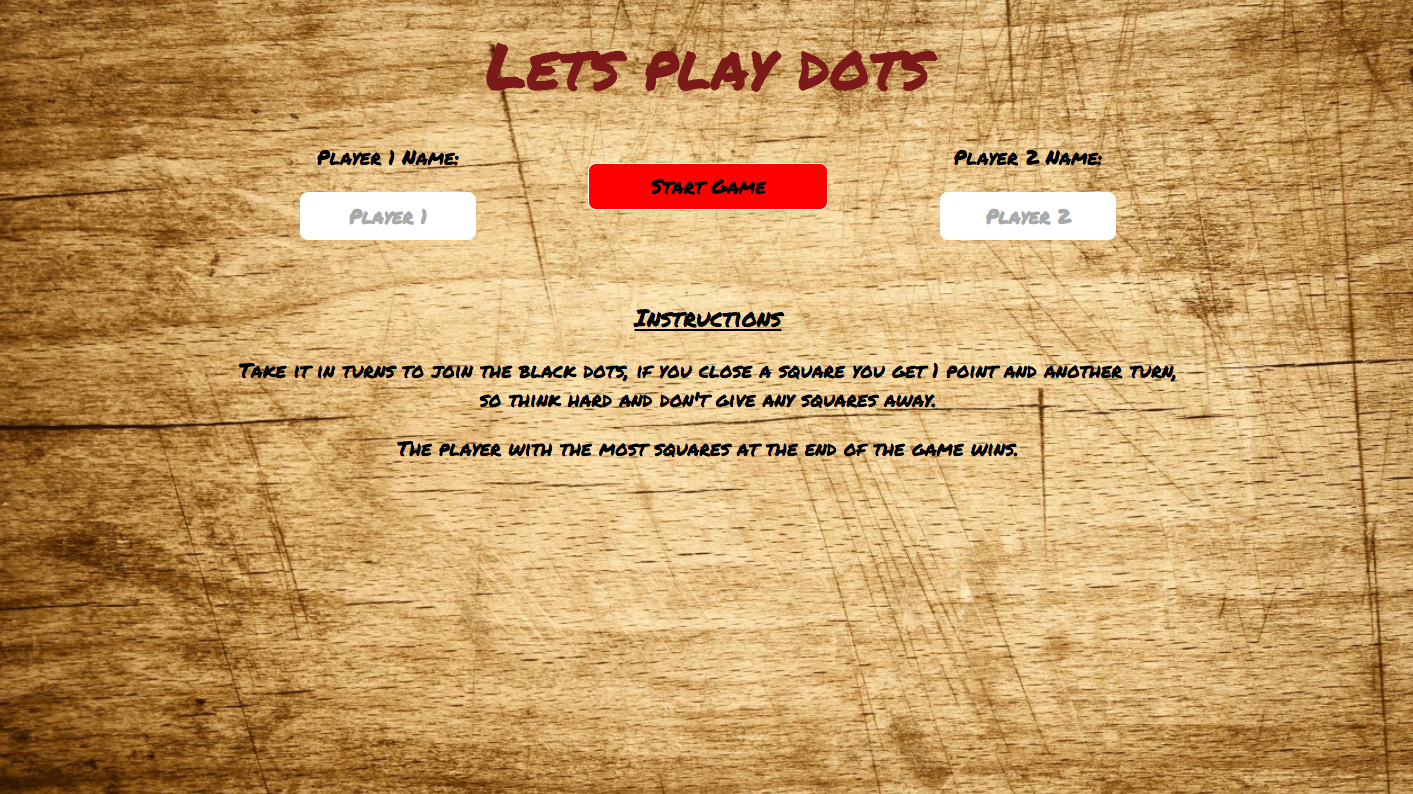
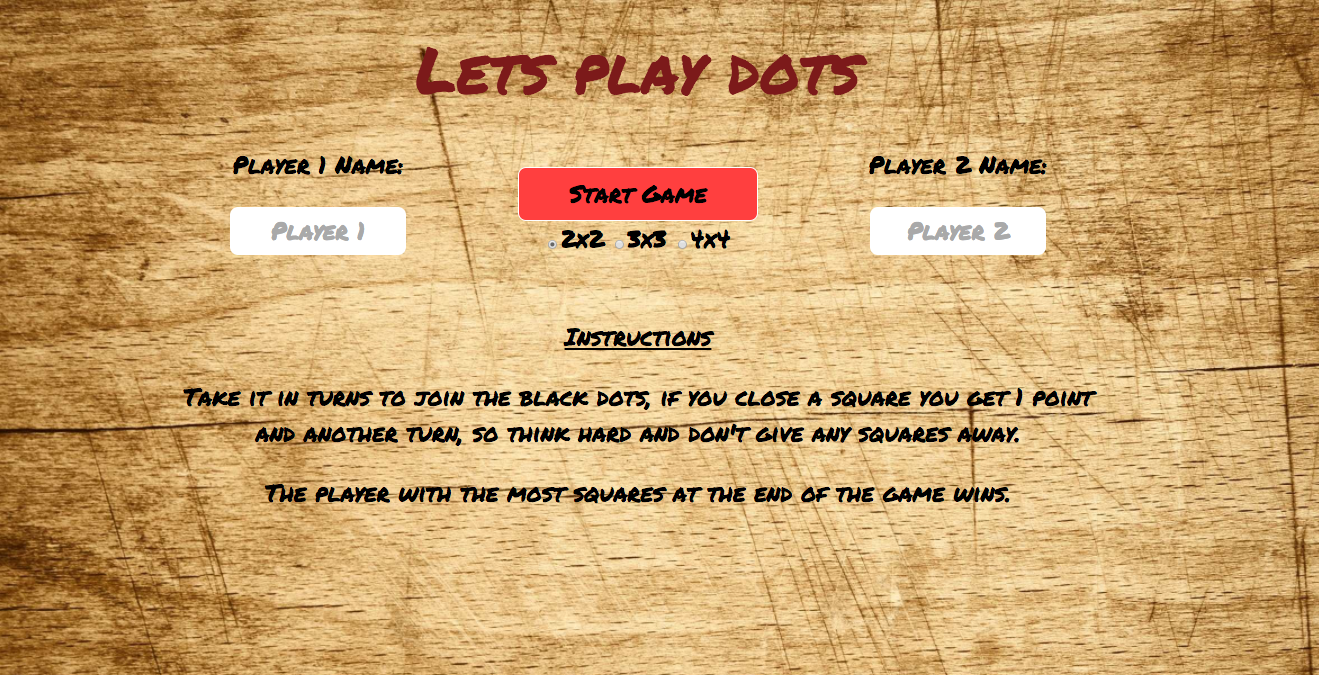
final commit

diff --git a/index.html b/index.html
@@ -25,7 +25,6 @@
 
                   <div class="playerNamesMiddle">
                     <div id="startGameWelcome">Start Game</div>
-                    <br>
                     <div id="radioButtons">
                       <input type="radio" name="boardSize" value="2">2x2
                       <input type="radio" name="boardSize" value="3" checked>3x3

diff --git a/css/style.css b/css/style.css
@@ -306,7 +306,7 @@ aside {
     /*background: orange;*/
     width: 320px;
     margin: 0 0px;
-
+    margin-bottom: 20px;
     text-align: center;
   }
 

diff --git a/README.md b/README.md
@@ -5,7 +5,7 @@
 
 *As played by bored kids across the world...*
 
-It’s currently a two player game. You can enter your own name, or stick with the automatic values of “player 1” and “player 2”.
+It’s currently a two player game. You can enter your own name, or stick with the automatic values of “player 1” and “player 2”. You can also choose the game board size on this screen.
 
 
 ![welcome](./images/screenShot1.png)
@@ -33,8 +33,8 @@ As the game is played, if you close a square it will be filled with your initial
 Each time a line is drawn there is a short pencil sound, a win gets a Ta-Daa sound and there is a trumpet for a draw.
 
 ####The build
-HTML 5, CSS and jQuery were used to create the whole game.
-The Google Web Font 'Permanent Marker' has been used to style the game.
+- HTML 5, CSS and jQuery were used to create the whole game.
+- The Google Web Font 'Permanent Marker' has been used to style the game.
 
 ![Mobile](./images/screenShot3.png)
 
@@ -44,4 +44,6 @@ The biggest challenge from the game was getting jquery to build the board and th
 
 I sorted the problem by giving each element of the board an ascending ID number and then used the number of elements in each row to figure out which box to address.
 
-Generating a simple style that worked on mobile and desktop was also a challenge.
+Generating a simple style that worked on mobile and desktop was also a challenge, I'm happy with both sites as they are.
+
+Lastly changing the radio buttons styling for picking a board size would have been nice.
